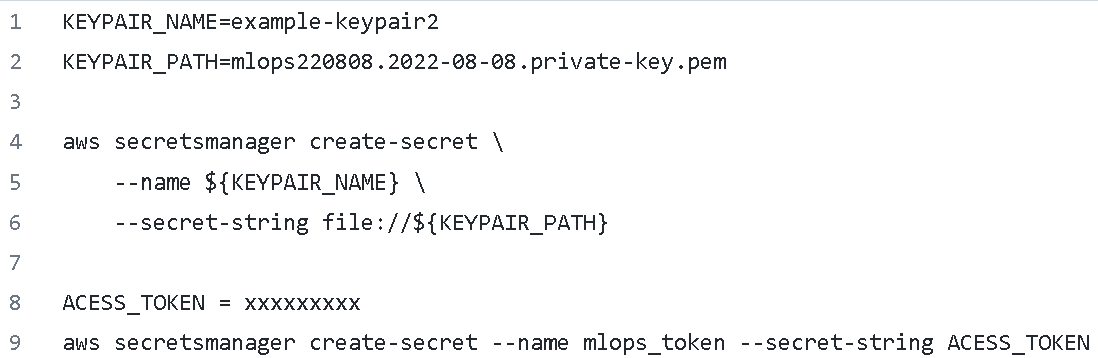
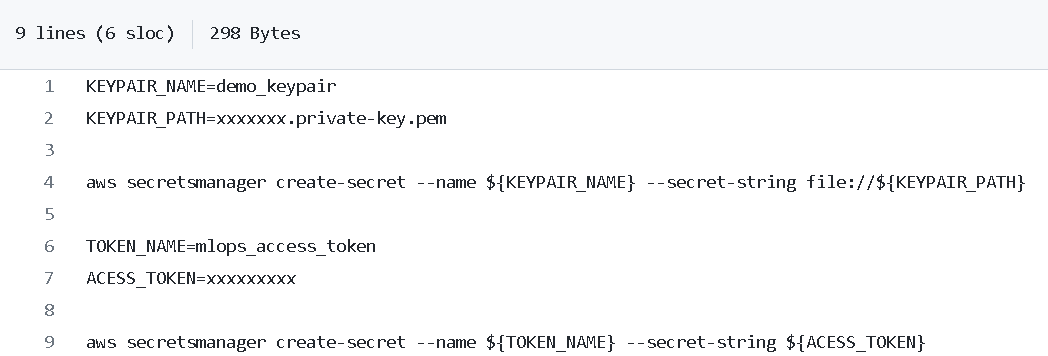
修正

diff --git a/docs/source/start.rst b/docs/source/start.rst
@@ -25,6 +25,7 @@ You go to the "Settings" page of your account in GitHub website and click "devel
 You follow three actions in this page.
 
 1. You fill in the "Github App name" and "Homepage URL" with whatever you think.
+
 .. _target to image:
 
 .. figure:: /image/GithubApp_HomepageB.png
@@ -86,13 +87,19 @@ You open this directory in VS code and rewrite "KEYPAIR_PATH" and "ACCESS_TOKEN"
 You enter pass of private key for "KEYPAIR_PATH" and some string for "ACCESS_TOKEN".
 If you execute the "secret_manager.sh" file, you register this with AWS Secret.
 
-.. _target to image:
 
-.. figure:: /image/manager.png
-   :alt: Logo 
-   :align: center
-   :width: 600px
-　　　　　　　　　　　　　　　　　　Click to enlarge!
+.. code-block:: python
+
+   KEYPAIR_NAME=demo_keypair
+   KEYPAIR_PATH=xxxxxxx.private-key.pem
+
+   aws secretsmanager create-secret --name ${KEYPAIR_NAME} --secret-string file://${KEYPAIR_PATH}
+
+   TOKEN_NAME=mlops_access_token
+   ACESS_TOKEN=xxxxxxxxx
+
+   aws secretsmanager create-secret --name ${TOKEN_NAME} --secret-string ${ACESS_TOKEN}
+
 
 .. code-block:: python
 
